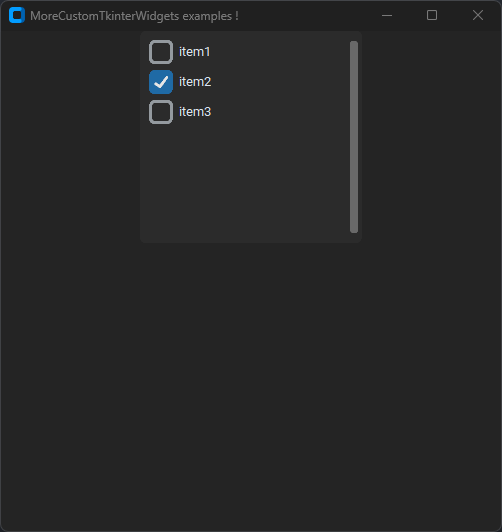
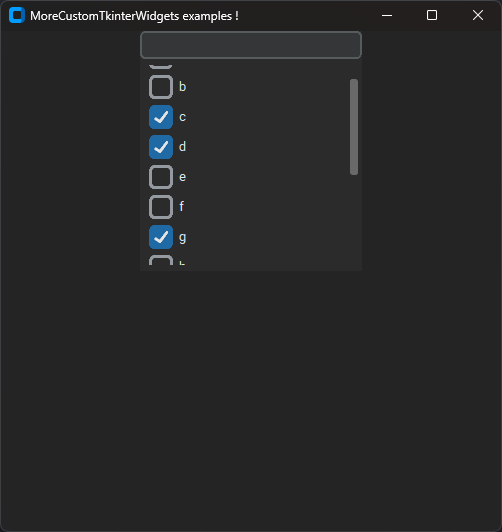
v4.1.0
Updated the selector widget
See patch notes for more information

Changed region(s): [[0.1793, 0.0, 0.747, 0.5113], [0.0598, 0.0, 0.1793, 0.0602], [0.6873, 0.3308, 0.7171, 0.4511]]

diff --git a/Source Code/Selector.py b/Source Code/Selector.py
@@ -1,17 +1,25 @@
 import customtkinter as ctk
 
 
-class Selector(ctk.CTkScrollableFrame):
+class Selector(ctk.CTkFrame):
     def __init__(self, master, items: list[str], multiple_choices=True, *args, **kwargs):
-        """Selector widgets to select options in a list of options
+        """Selector widgets to select options in a list of options. Includes a search bar to find different elements faster.
 
         :param master: master window for the widget
         :param items: list of the possible options, they should all be different
         :param multiple_choices: Optional: if set to False, the user will be allowed to select only one item (default=True)
-        :param args: args for the ScrollableFrame widget
-        :param kwargs: kwargs for the ScrollableFrame widget
+        :param args: args for the CTkFrame widget
+        :param kwargs: kwargs for the CTkFrame widget
         """
         super().__init__(master, *args, **kwargs)
+
+        self.search_var = ctk.StringVar(self)
+        self.search_var.trace_add("write", self._search_modified)
+        self.search_bar = ctk.CTkEntry(self, textvariable=self.search_var)
+        color = kwargs.pop("fg_color") if "fg_color" in kwargs else "transparent"
+        self.checkboxes_frame = ctk.CTkScrollableFrame(self, fg_color=color, *args, **kwargs)
+        self.search_bar.pack(anchor="n", fill="x")
+        self.checkboxes_frame.pack(expand=True, fill="both", side="bottom")
 
         self.checkboxes = []
         self.selected_indexes = []
@@ -19,8 +27,8 @@ class Selector(ctk.CTkScrollableFrame):
 
         if len(set(items)) == len(items):  # not 2 times the same item
             for index in range(len(items)):
-                self.checkboxes.append(ctk.CTkCheckBox(self, text=items[index], command=lambda a=index: self._selection(a)))
-                self.checkboxes[-1].grid(row=index, column=0, padx=3, pady=3)
+                self.checkboxes.append(ctk.CTkCheckBox(self.checkboxes_frame, text=items[index], command=lambda a=index: self._selection(a)))
+            self._search_modified()
         else:
             raise ValueError("There is two times or more the same item in the given items list")
 
@@ -39,6 +47,22 @@ class Selector(ctk.CTkScrollableFrame):
                     self.selected_indexes.append(index)
                 else:
                     self.selected_indexes.append(index)
+
+    def _reset_scroll(self):
+        """ Internal method: scrolls back to the starting position """
+        self.checkboxes_frame._parent_canvas.yview_moveto(0)
+
+    def _search_modified(self, *args):
+        """ Internal method: modifies the search """
+        value = self.search_var.get()
+        row = 0
+        for x in range(len(self.checkboxes)):
+            if self.checkboxes[x].cget("text").startswith(value):
+                self.checkboxes[x].grid(row=row, column=0, padx=3, pady=3)
+                row += 1
+            else:
+                self.checkboxes[x].grid_forget()
+        self._reset_scroll()
 
     def get_all_items(self) -> list:
         """ Returns all the items in the selector """
@@ -61,7 +85,7 @@ class Selector(ctk.CTkScrollableFrame):
                 # create new ones
                 for index in range(len(items)):
                     self.checkboxes.append(ctk.CTkCheckBox(self, text=items[index], command=lambda a=index: self._selection(a)))
-                    self.checkboxes[-1].grid(row=index, column=0, padx=3, pady=3)
+                self._search_modified()
             else:
                 raise ValueError("There is two times or more the same item in the given items list")
 

diff --git a/Source Code/__init__.py b/Source Code/__init__.py
@@ -9,4 +9,5 @@ from .AnimatedImage import AnimatedImage
 from .Separator import Separator
 
 
-_version = "4.0.1"
+_version = "4.1.0"
+__version__ = "4.1.0"

diff --git a/Examples.md b/Examples.md
@@ -141,7 +141,8 @@ This code produces the following result:
 
 ### Selector
 
-The `Selector` class allows to easily create a list of checkboxes to ask the user to select one or multiple choices. 
+The `Selector` class allows to easily create a list of checkboxes to ask the user to select one or multiple choices.
+The selector contains a searchbar to easily narrow the search of items for the user.
 ```python
 import customtkinter as ctk
 import MoreCustomTkinterWidgets as mctk
@@ -150,7 +151,7 @@ win = ctk.CTk()
 win.title("MoreCustomTkinterWidgets examples !")
 win.geometry("500x500")
 
-selector = mctk.Selector(win, ["item1", "item2", "item3"])
+selector = mctk.Selector(win, ["a", "b", "c", "d", "e", "f", "g", "h", "j", "i", "k", "l", "m", "n"])
 selector.pack()
 
 win.mainloop()

diff --git a/README.md b/README.md
@@ -21,8 +21,6 @@ See [^1] for the mentions.
 ## How to install
 To install the package, you should use pip. Install the package with the following command: `pip install MoreCustomTkinterWidgets`
 
-If you have an issue installing the module or if you find a bug while using it, please report it in the [discord server](https://discord.gg/pHPkkpXhUV).
-
 ## Widgets
 
 [![Examples](https://img.shields.io/badge/Examples_for_all_widgets-red)](Examples.md)

diff --git a/Patch notes.md b/Patch notes.md
@@ -1,6 +1,14 @@
 # Patch notes for MoreCustomTkinterWidgets
 
 
+## v4.1.0
+21/12/2024
+
+Novelties:
+- Selector:
+  - New functionnality: the search bar. Allows to easily narrow the search of an item.
+
+
 ## v4.0.1
 26/08/2024
 
